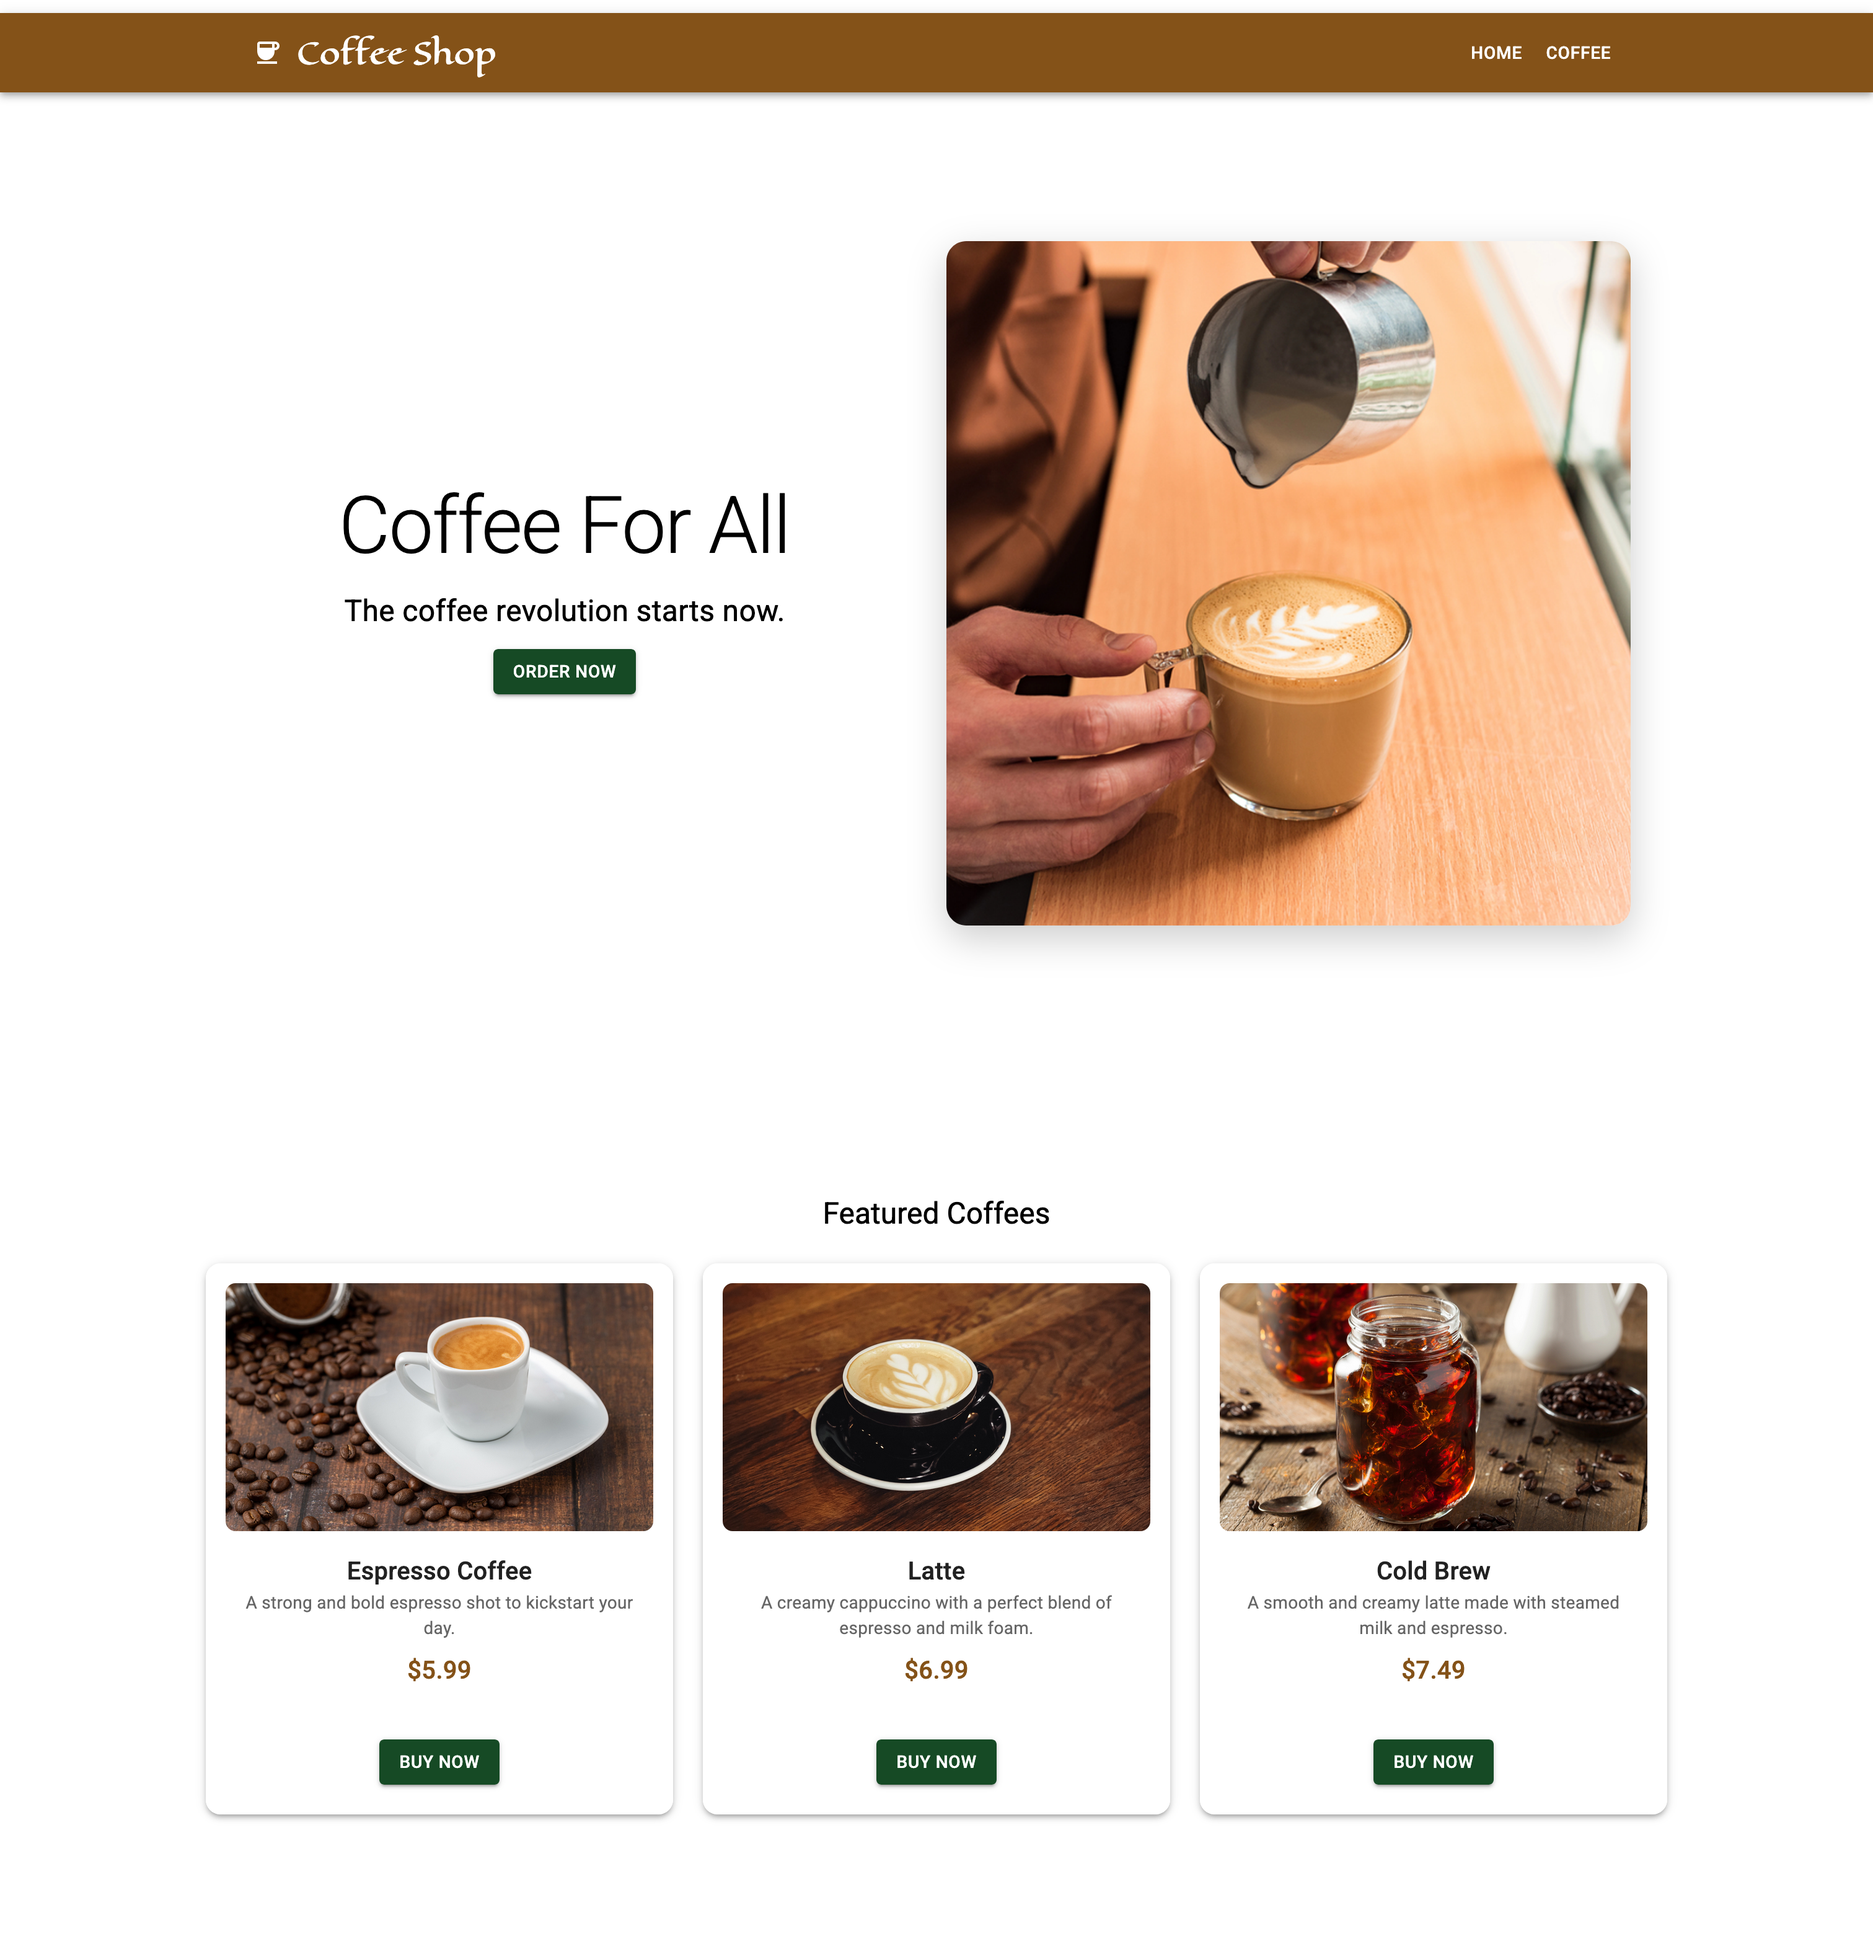
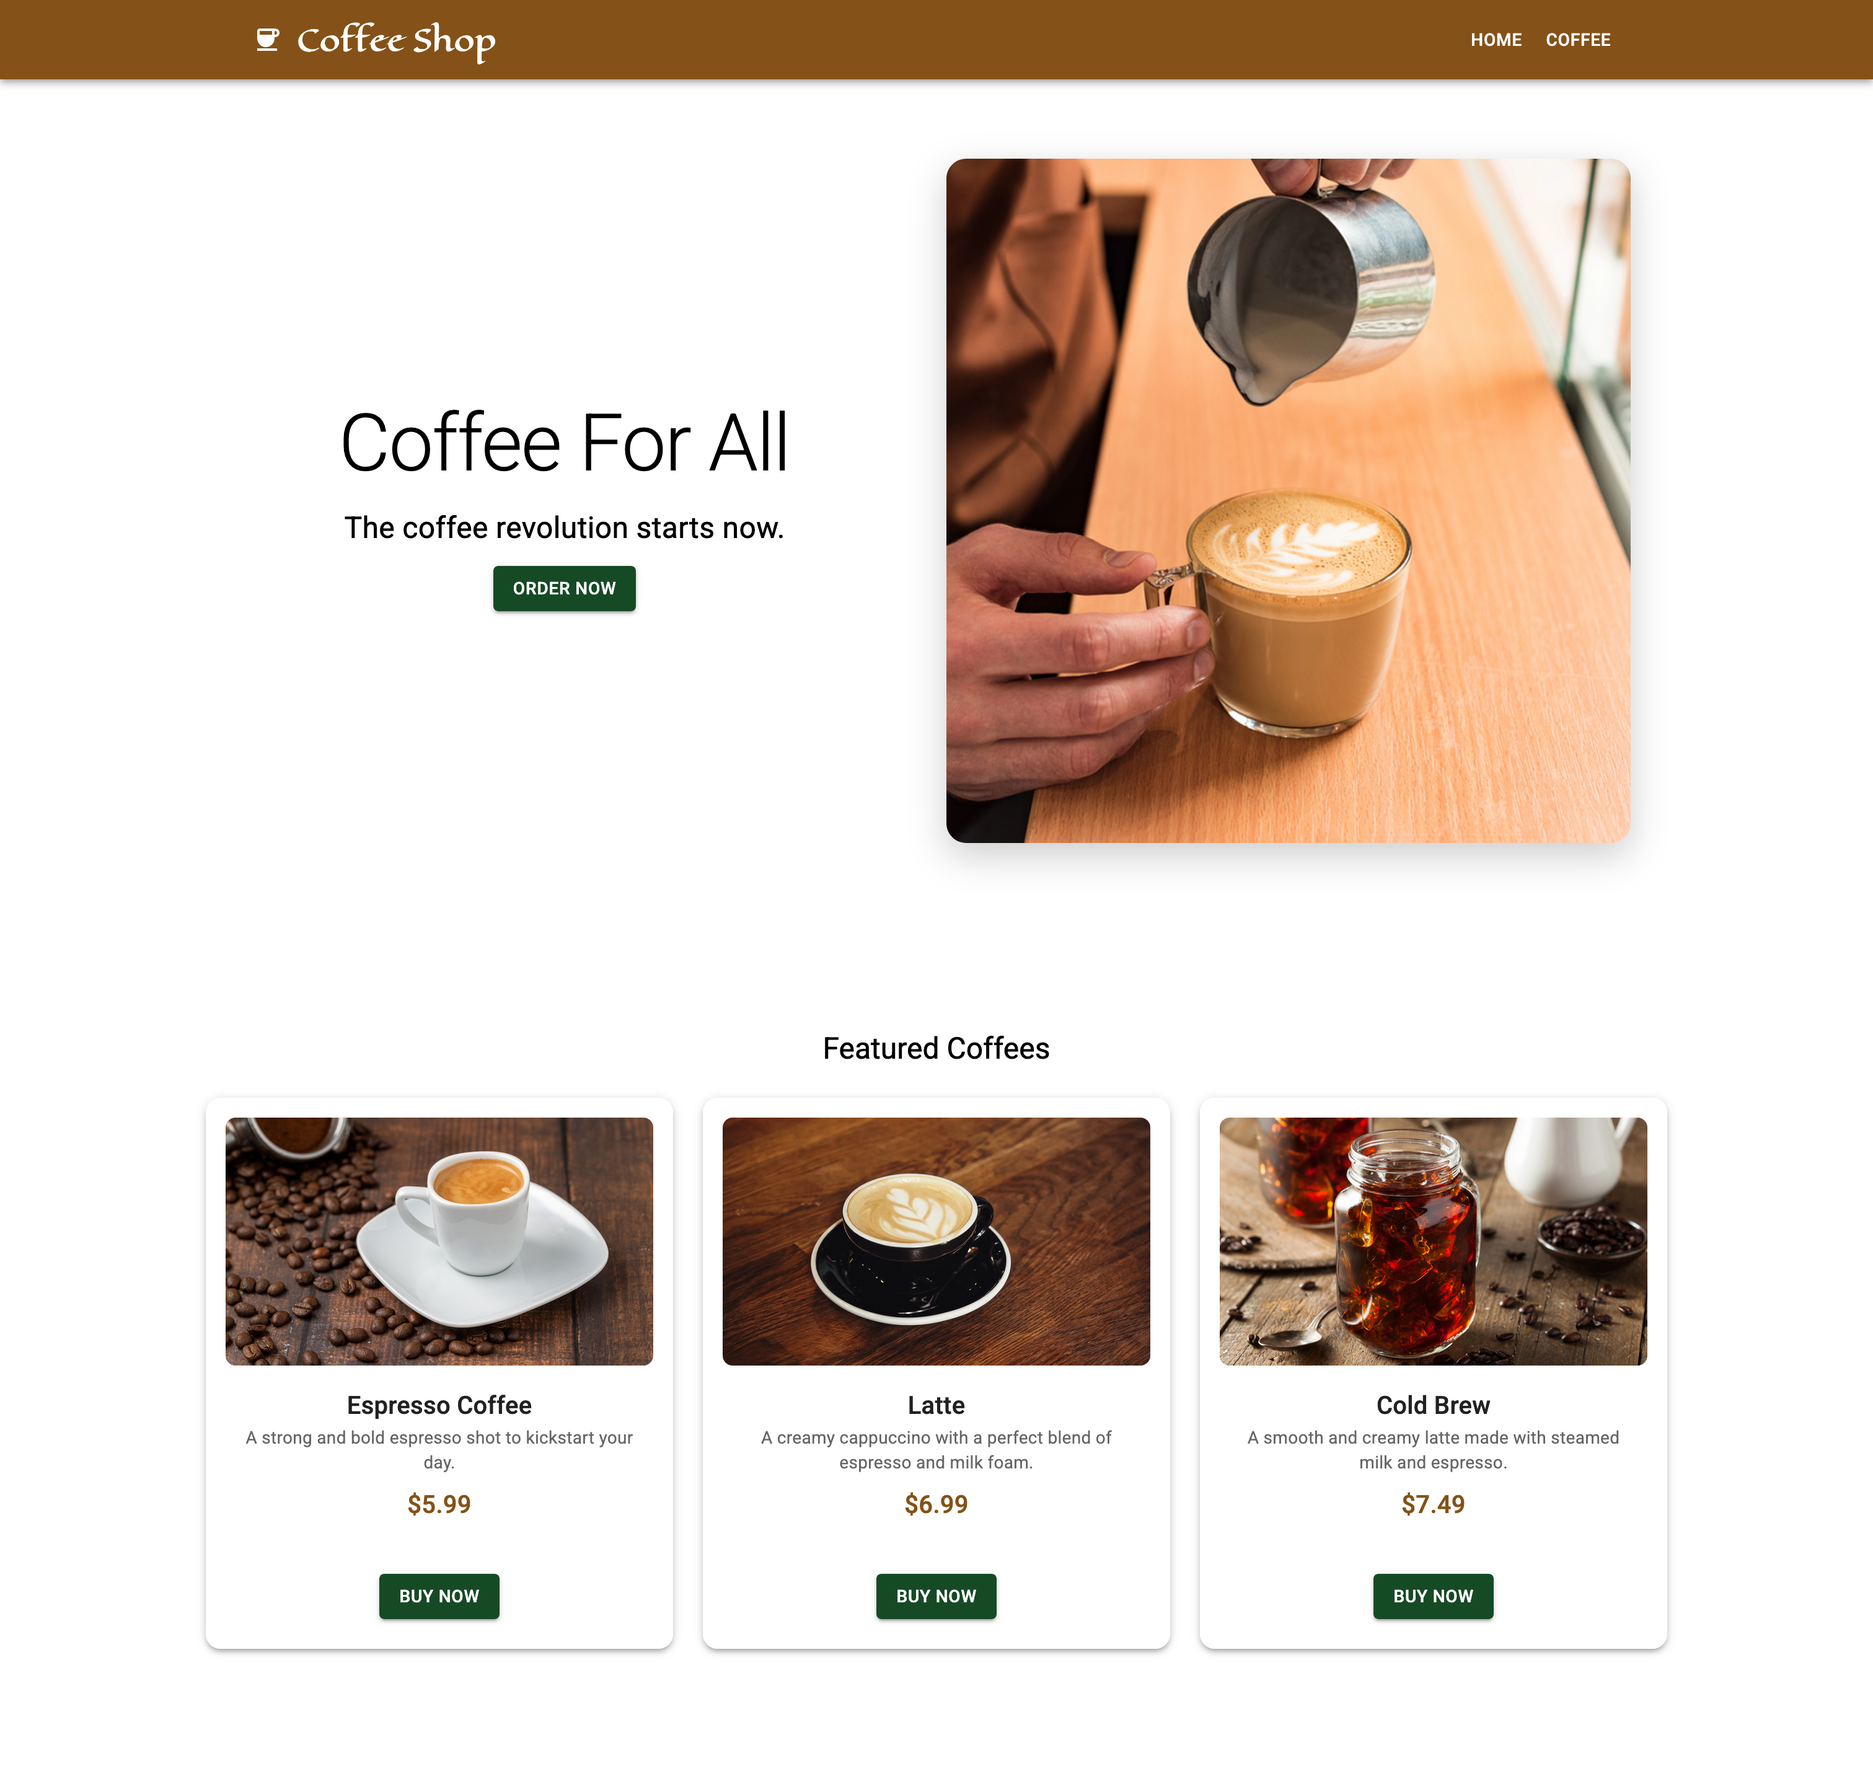
add fonts.d for fontSource and update readme

diff --git a/src/components/features/Coffee.tsx b/src/components/features/Coffee.tsx
@@ -1,6 +1,5 @@
 import products from '../../assets/coffee';
 import {
-  Container,
   Card,
   CardActions,
   CardContent,
@@ -11,6 +10,14 @@ import {
 } from '@mui/material';
 import Grid from '@mui/material/Grid';
 
+type Product = {
+  id: number;
+  title: string;
+  image: string;
+  price: number;
+  description: string;
+};
+
 export default function Coffee() {
   return (
     <Box sx={{ my: 10 }} id='coffee'>
@@ -18,8 +25,8 @@ export default function Coffee() {
         Featured Coffees
       </Typography>
       <Grid container spacing={3} sx={{ padding: 3, justifyContent: 'center' }}>
-        {products.map((product) => (
-          <Grid key={product.id} item xs={12} sm={6} md={4}>
+        {products.map((product: Product) => (
+          <Grid key={product.id} xs={12} sm={6} md={4}>
             <Card
               sx={{
                 maxWidth: 345,

diff --git a/src/App.tsx b/src/App.tsx
@@ -1,4 +1,4 @@
-import '@fontsource/roboto';
+// import '@fontsource/roboto';
 import './App.css';
 import theme from './assets/theme';
 import { ThemeProvider } from '@mui/material';

diff --git a/src/fonts.d.ts b/src/fonts.d.ts
@@ -1,0 +1,3 @@
+// src/fonts.d.ts
+declare module '@fontsource/roboto';
+declare module '@fontsource/roboto/*';

diff --git a/README.md b/README.md
@@ -1,11 +1,10 @@
-# Bookmark App Website
+# Coffee Shop App with React 19 and Material UI 7
 
 
 ## Table of contents
 
 - [Table of contents](#table-of-contents)
 - [Overview](#overview)
-  - [The challenge](#the-challenge)
   - [Screenshot](#screenshot)
   - [Links](#links)
 - [My process](#my-process)
@@ -23,18 +22,17 @@
 ### Screenshot
 
 ![](./src/assets/images/desktop.png)
-![](./images/mobile.png)
+![](./src/assets/images/mobile.png)
 
 ### Links
 
-- Solution URL: [https://github.com/andrewteece/Shortly-Website](https://github.com/andrewteece/Shortly-Website)
+- Code URL: [https://github.com/andrewteece/coffeeShop](https://github.com/andrewteece/coffeeShop)
 - Live Site URL: [https://adorable-tulumba-ffa30e.netlify.app/](https://adorable-tulumba-ffa30e.netlify.app/)
 
 ### Built with
 
 - React 19.1.0
 - Material UI 7.2.0
-
 
 ## Author
 
